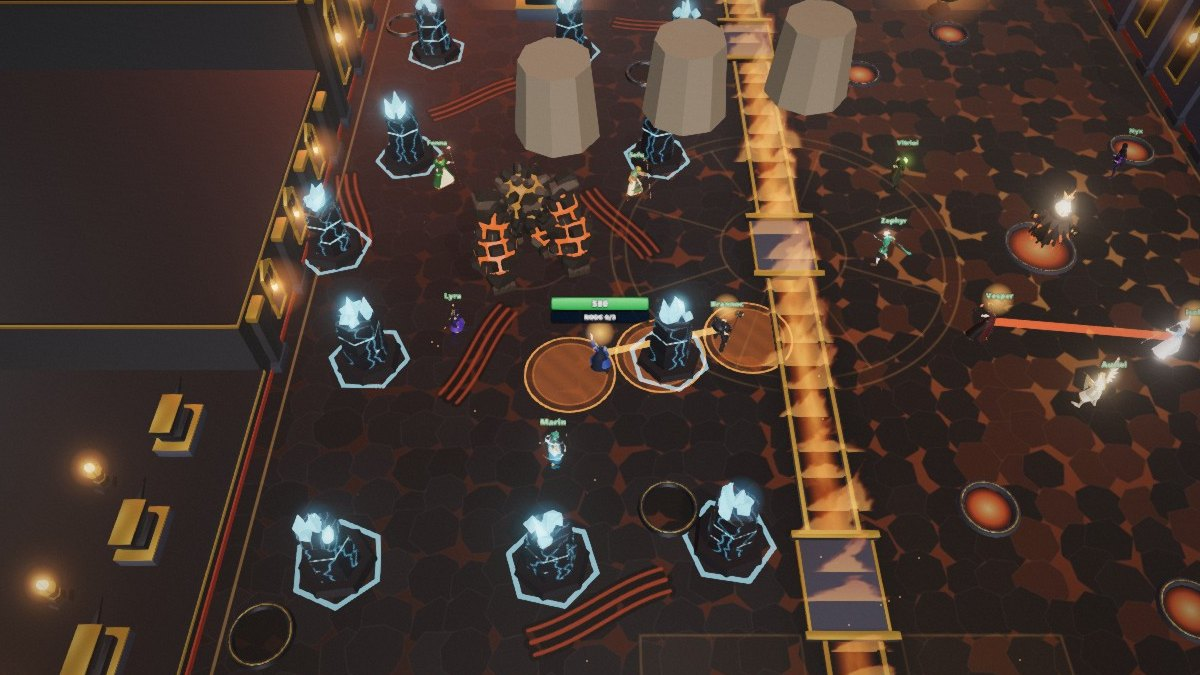
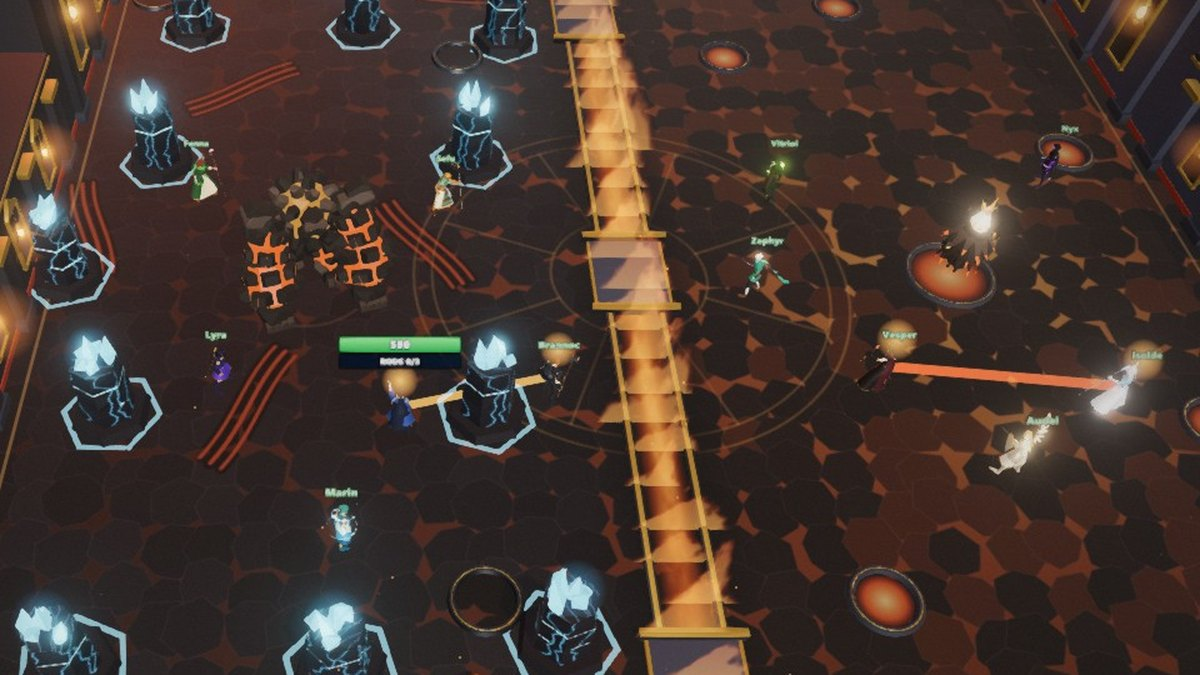
Twin Flames: a picture of the chains before the rocks (twin-chain-pair, the News crop); the tries tool compares the room by the computer's clock and each bridge's changes

diff --git a/src/game/changelog.ts b/src/game/changelog.ts
@@ -216,7 +216,7 @@ export const CHANGELOG: Release[] = [
         title: 'Lantern Chain: for a raid of six or more',
         text: 'Ember\'s lanterns chain heroes together in pairs. Stay close to your partner: drift more than a few steps apart and the chain snaps and burns you both. Then Ash\'s rocks fall on the line through the pair, so step off it, both to the same side.',
         image: 'news/twin-lantern-chain.jpg',
-        alt: 'In Ash\'s hall three falling rocks hang over gold circles on the floor; across the wall of fire a red chain of light runs between two of Ember\'s heroes.',
+        alt: 'Two pairs of heroes chained by light: in Ash\'s hall a gold chain from Kaia to Brannoc past a crystal pillar, and across the wall of fire a red chain between Vesper and Isolde in Ember\'s hall.',
       },
       {
         tag: 'Raid',

diff --git a/pipeline/tools/twin-shots.js b/pipeline/tools/twin-shots.js
@@ -156,6 +156,9 @@ if (!phone) {
   send(0, { move: 'chain', x: -7, z: 14.2, target: 0, mate });
   send(1, { move: 'chain', x: 9, z: 12, target: seats(dealt, 1)[0], mate: seats(dealt, 1)[1] });
   run(2);
+  // The chains themselves, before the rocks: a light from each lantern to the pair's two heroes.
+  zoomTo(2.3);
+  out['twin-chain-pair'] = shot();
   send(0, { move: 'chain', step: CHAIN.most, x: -7, z: 14.2, dir: Math.atan2(6, -1.5), target: 0, mate });
   step(0.8);
   zoomTo(2.3);

diff --git a/pipeline/tools/twin-tries.py b/pipeline/tools/twin-tries.py
@@ -72,10 +72,11 @@ def read(folder):
                 offs[half].append((min(seen), max(seen)))
     drift = max((max(hi for _, hi in o) - min(lo for lo, _ in o) for o in offs if o), default=0)
     # The bars are compared at the same moment by the computer's clock (`forge.wall`, within 0.15 s): the screens' fight clocks
-    # start a second or two apart. `barsOff`: samples over 2 % of a bar apart (a hit or a reward on its way shows as one sample).
+    # start a second or two apart. `barsOff`: samples over 2 % of a bar apart (a hit or a reward on its way shows as one sample);
+    # `cracked`, `bridges`: samples whose room differs from screen 0's at that moment, of `compared`; `inset`: the most the flood's edge differs (m).
     ref_wall = [s["forge"]["wall"] for s in first if s.get("forge")]
     ref_by_wall = [s for s in first if s.get("forge")]
-    bars_off = 0
+    bars_off = compared = 0
     for sc in screens[1:]:
         for s in sc:
             if s.get("forge") and ref_wall:
@@ -85,17 +86,39 @@ def read(folder):
                     gap = max(abs(s["twin"]["hp"][k] - r["twin"]["hp"][k]) / s["twin"]["max"][k] for k in (0, 1))
                     bars = max(bars, gap)
                     bars_off += gap > 0.02
-            ref = by_t.get(round(s["t"]))
-            if not ref or not ref.get("forge") or not s.get("forge"):
+                    # The room at the same moment: which halves have cracked, which bridges stand, how far the flood has come (m).
+                    compared += 1
+                    cracked += s["forge"]["cracked"] != r["forge"]["cracked"]
+                    bridges += s["forge"]["bridges"] != r["forge"]["bridges"]
+                    inset = max(inset, abs(s["forge"]["inset"] - r["forge"]["inset"]))
+    # Each bridge rising or sinking on a screen, against the same change on screen 0 (by the computer's clock, while screen 0 still
+    # records): `bridgeLag` is the most it came later or earlier than the samples' own spacing allows (s); `bridgeLone` counts
+    # changes screen 0 never had within 3 s.
+    def changes(sc):
+        rows = [x for x in sc if x.get("forge")]
+        out = []
+        for a, b in zip(rows, rows[1:]):
+            for k, (u, v) in enumerate(zip(a["forge"]["bridges"], b["forge"]["bridges"])):
+                if u != v:
+                    out.append((k, v, (a["forge"]["wall"] + b["forge"]["wall"]) / 2, (b["forge"]["wall"] - a["forge"]["wall"]) / 2))
+        return out
+    mine = changes(first)
+    lo, hi = (ref_wall[0], ref_wall[-1]) if ref_wall else (0, 0)
+    lag, lone = 0.0, 0
+    for sc in screens[1:]:
+        for k, v, w, h in changes(sc):
+            if not lo + 2000 < w < hi - 2000:
                 continue
-            cracked += s["forge"]["cracked"] != ref["forge"]["cracked"]
-            bridges += s["forge"]["bridges"] != ref["forge"]["bridges"]
-            inset = max(inset, abs(s["forge"]["inset"] - ref["forge"]["inset"]))
+            off = min((abs(w - w0) - h - h0 for k0, v0, w0, h0 in mine if k0 == k and v0 == v), default=1e9)
+            if off > 3000:
+                lone += 1
+            else:
+                lag = max(lag, off / 1000)
     for sc in screens:
         for s in sc:
             if s["twin"]["wall"] and s.get("me") and (s["me"][0] < 0) != (s["twin"]["half"] == 0):
                 across += 1
-    out["apart"] = {"bars": round(bars * 100, 2), "barsOff": bars_off, "roomClock": round(drift, 2), "inset": round(inset, 1), "across": across}
+    out["apart"] = {"bars": round(bars * 100, 2), "barsOff": bars_off, "roomClock": round(drift, 2), "inset": round(inset, 2), "cracked": cracked, "bridges": bridges, "compared": compared, "bridgeLag": round(lag, 2), "bridgeLone": lone, "across": across}
     out["lavaHits"] = sum((s[-1].get("hits") or {}).get("forge", 0) for s in screens)
     out["lava"] = sum(1 for sc in screens for s in sc if s.get("forge", {}).get("lava"))
     out["errors"] = sum(s[-1].get("errors", 0) for s in screens)
